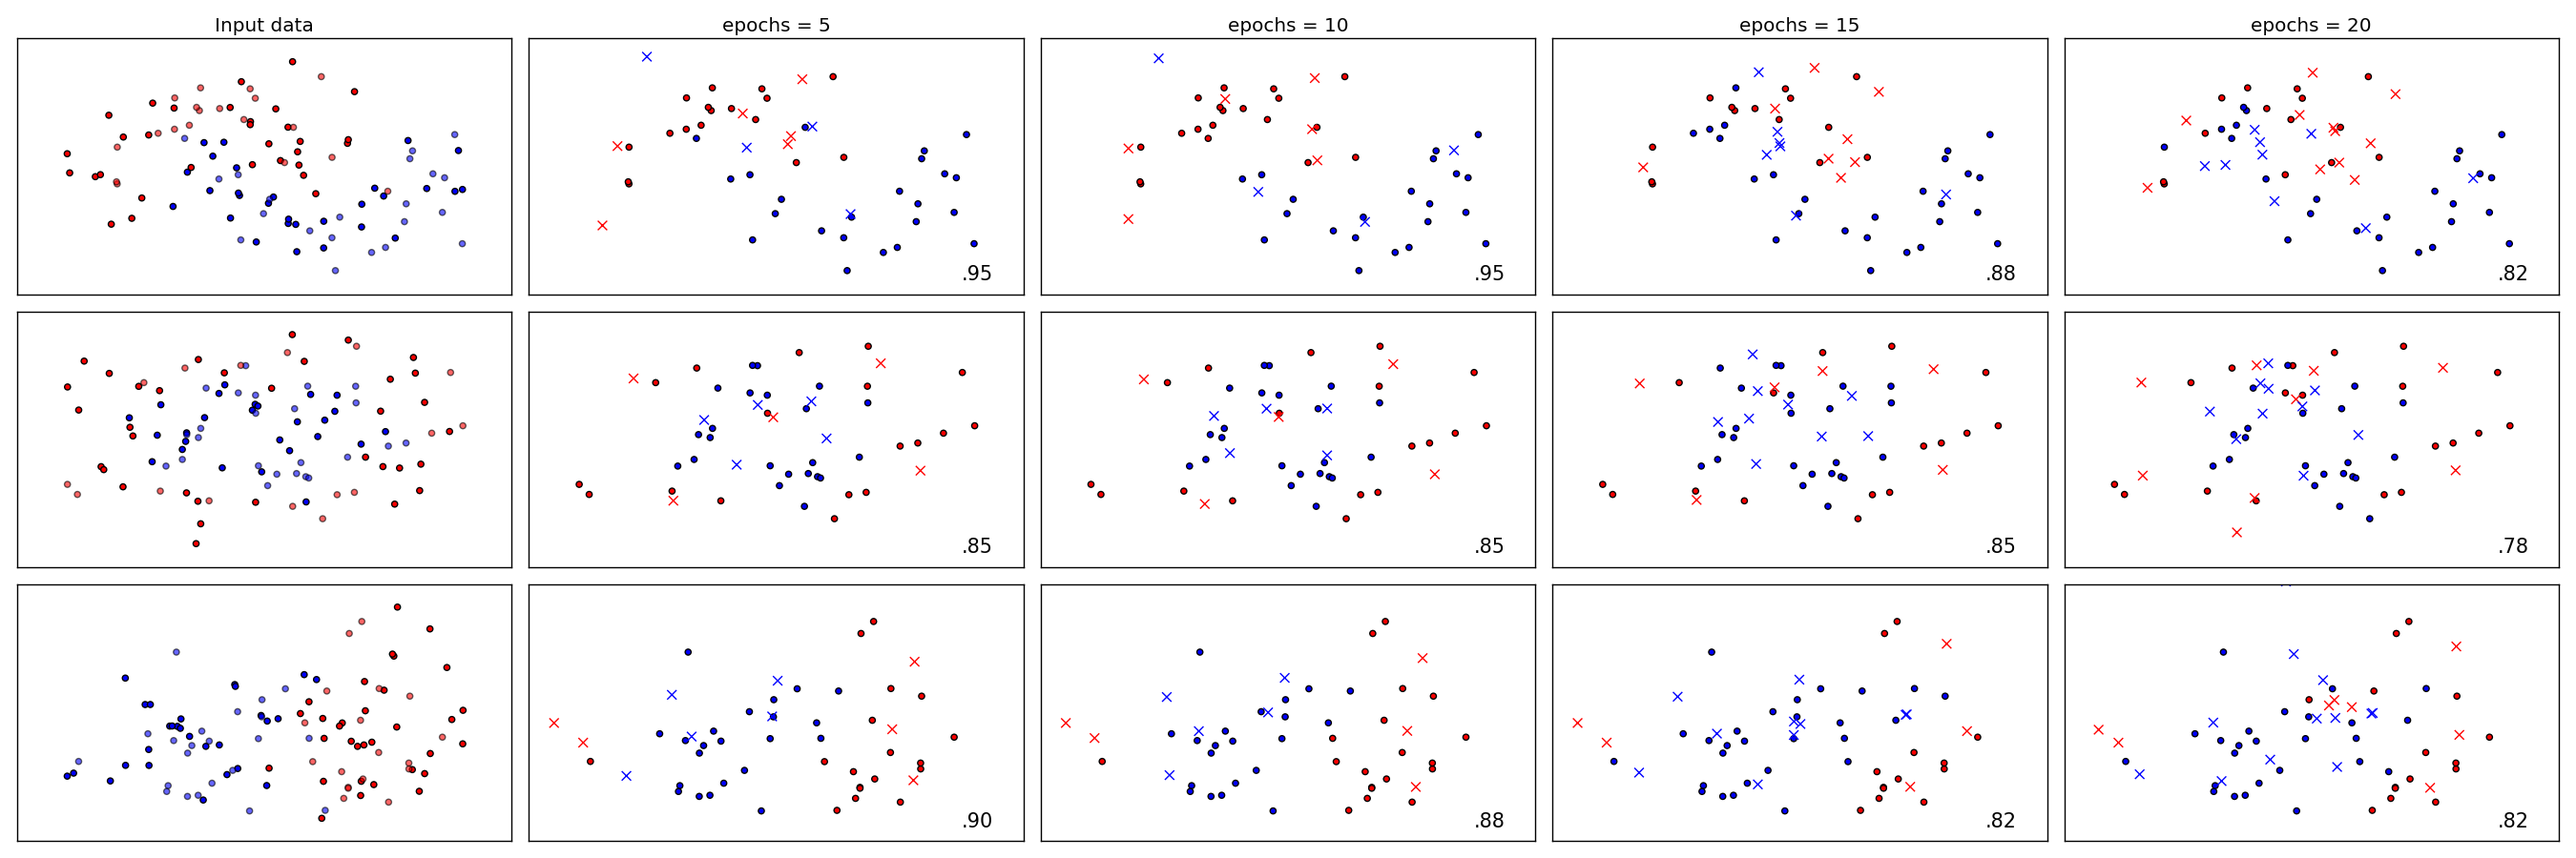
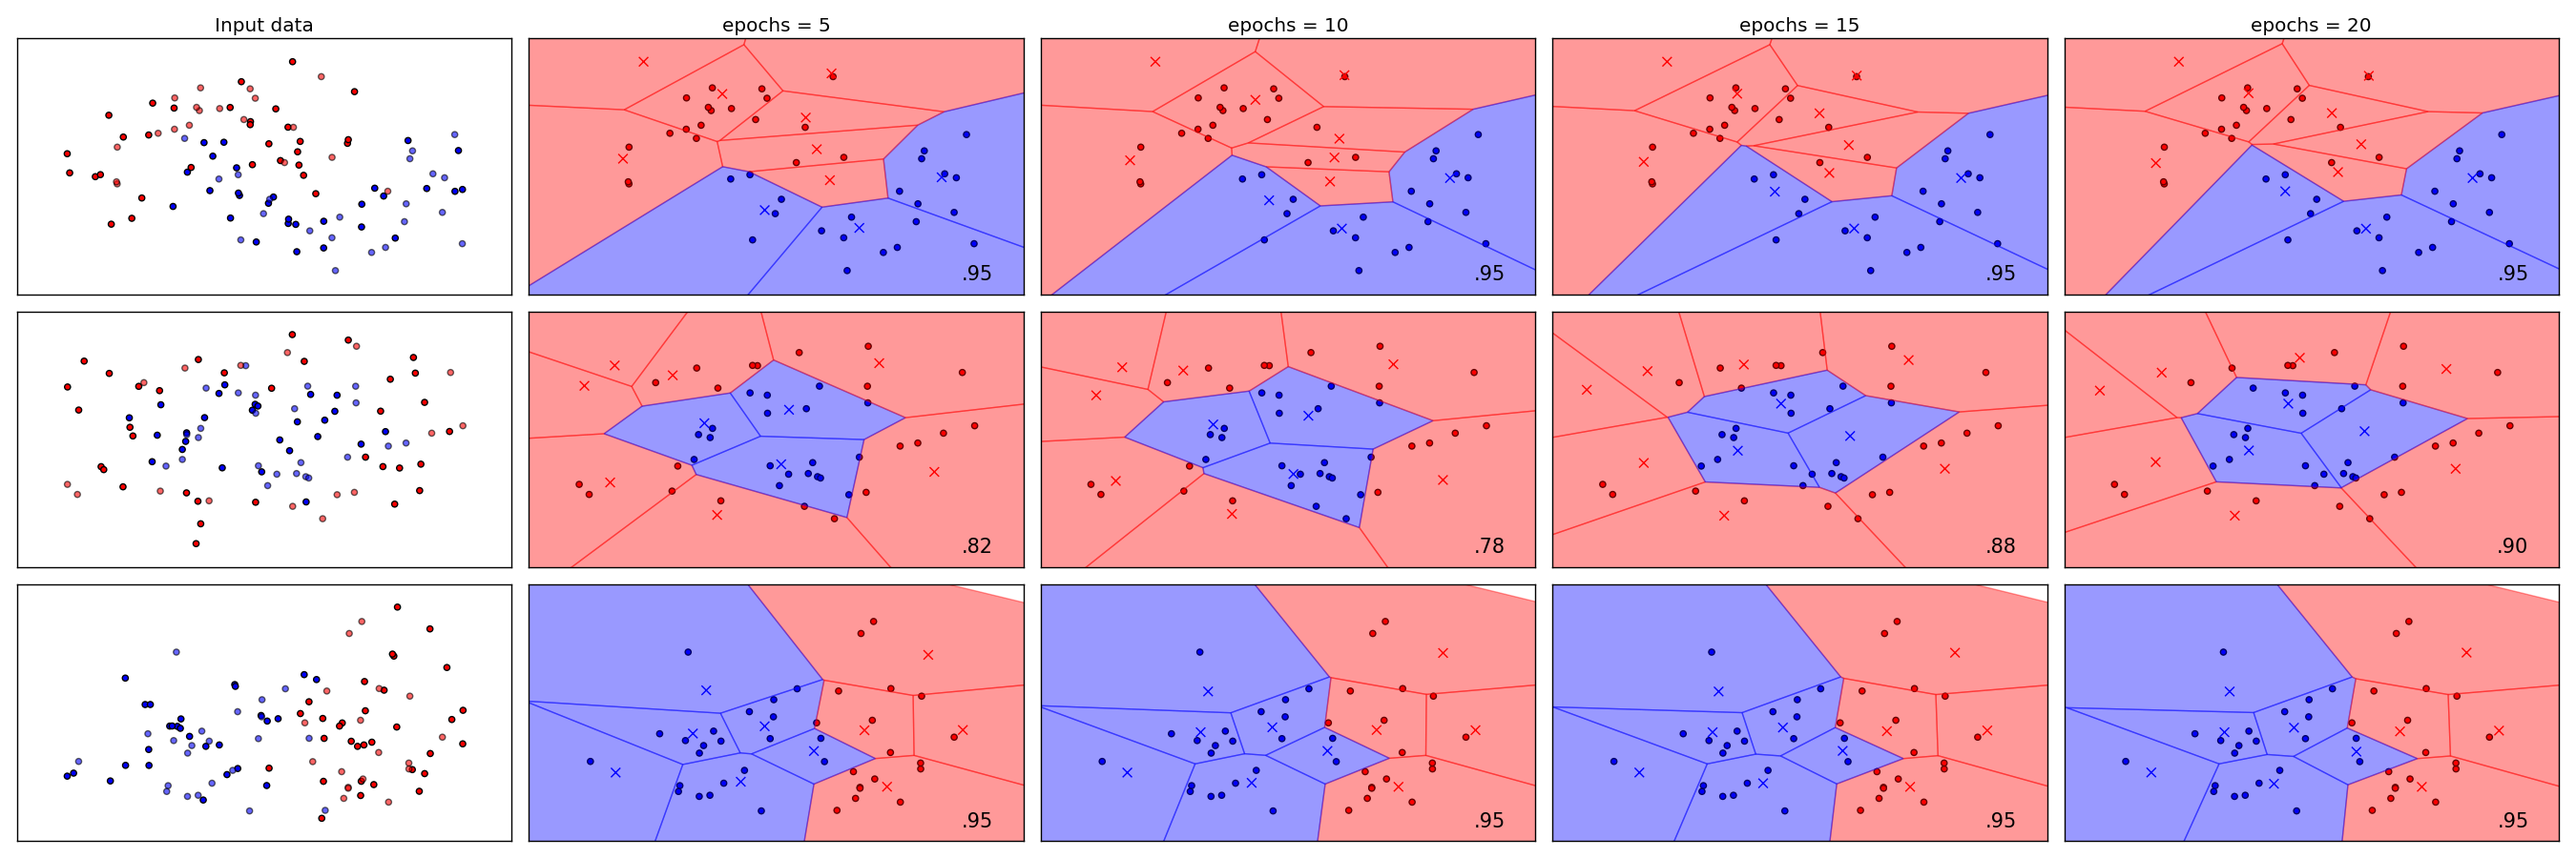
Changed COnfig-Definition and added ReadMe

diff --git a/Comparison.py b/Comparison.py
@@ -8,7 +8,108 @@ import LVQ
 from ConfigParser import SafeConfigParser
 import sys
 import os
+from scipy.spatial import Voronoi
 h = .02  # step size in the mesh
+
+def voronoi_finite_polygons_2d(vor, radius=None):
+    """
+    Reconstruct infinite voronoi regions in a 2D diagram to finite
+    regions.
+
+    Parameters
+    ----------
+    vor : Voronoi
+        Input diagram
+    radius : float, optional
+        Distance to 'points at infinity'.
+
+    Returns
+    -------
+    regions : list of tuples
+        Indices of vertices in each revised Voronoi regions.
+    vertices : list of tuples
+        Coordinates for revised Voronoi vertices. Same as coordinates
+        of input vertices, with 'points at infinity' appended to the
+        end.
+
+    """
+
+    if vor.points.shape[1] != 2:
+        raise ValueError("Requires 2D input")
+
+    new_regions = []
+    new_vertices = vor.vertices.tolist()
+
+    center = vor.points.mean(axis=0)
+    if radius is None:
+        radius = vor.points.ptp().max()
+
+    # Construct a map containing all ridges for a given point
+    all_ridges = {}
+    for (p1, p2), (v1, v2) in zip(vor.ridge_points, vor.ridge_vertices):
+        all_ridges.setdefault(p1, []).append((p2, v1, v2))
+        all_ridges.setdefault(p2, []).append((p1, v1, v2))
+
+    # Reconstruct infinite regions
+    for p1, region in enumerate(vor.point_region):
+        vertices = vor.regions[region]
+
+        if all(v >= 0 for v in vertices):
+            # finite region
+            new_regions.append(vertices)
+            continue
+
+        # reconstruct a non-finite region
+        ridges = all_ridges[p1]
+        new_region = [v for v in vertices if v >= 0]
+
+        for p2, v1, v2 in ridges:
+            if v2 < 0:
+                v1, v2 = v2, v1
+            if v1 >= 0:
+                # finite ridge: already in the region
+                continue
+
+            # Compute the missing endpoint of an infinite ridge
+
+            t = vor.points[p2] - vor.points[p1] # tangent
+            t /= np.linalg.norm(t)
+            n = np.array([-t[1], t[0]])  # normal
+
+            midpoint = vor.points[[p1, p2]].mean(axis=0)
+            direction = np.sign(np.dot(midpoint - center, n)) * n
+            far_point = vor.vertices[v2] + direction * radius
+
+            new_region.append(len(new_vertices))
+            new_vertices.append(far_point.tolist())
+
+        # sort region counterclockwise
+        vs = np.asarray([new_vertices[v] for v in new_region])
+        c = vs.mean(axis=0)
+        angles = np.arctan2(vs[:,1] - c[1], vs[:,0] - c[0])
+        new_region = np.array(new_region)[np.argsort(angles)]
+
+        # finish
+        new_regions.append(new_region.tolist())
+
+    return new_regions, np.asarray(new_vertices)
+
+
+def draw_voronoi(points, classes, ax):
+    # compute Voronoi tesselation
+    vor = Voronoi(points)
+
+    # plot
+    regions, vertices = voronoi_finite_polygons_2d(vor)
+
+    colors = ["red", "blue"]
+    # colorize
+    for i, region in enumerate(regions):
+        polygon = vertices[region]
+        cur_class = classes[i]
+        color = colors[int(cur_class)]
+        ax.fill(*zip(*polygon), alpha=0.4, color=color)
+
 
 def read_config(configfile):
     parser = SafeConfigParser()
@@ -94,6 +195,7 @@ for ds_cnt, ds in enumerate(datasets):
         X_code = clf.codebooks[:,:2]
         y_code = clf.codebooks[:,2]
 
+        draw_voronoi(X_code, y_code, ax)
         y_pred = clf.predict(X_test)
 
         # Plot prediction points

diff --git a/LVQ.py b/LVQ.py
@@ -5,9 +5,8 @@ import random
 import sklearn
 from sklearn.utils.validation import check_X_y, check_array, check_is_fitted
 from sklearn.utils.multiclass import unique_labels
-import sys
 from sklearn.metrics import accuracy_score
-
+from scipy.spatial.distance import cityblock
 # Set up a specific logger with our desired output level
 my_logger = logging.getLogger('LVQ')
 my_logger.setLevel(logging.INFO)
@@ -17,19 +16,26 @@ handler = logging.StreamHandler()
 my_logger.addHandler(handler)
 
 
+######### Distance Functions
 
 def euclidean_distance(vect1, vect2):
     dist = np.linalg.norm(vect1 - vect2)
     return dist
 
-# Codebook Init Functions
+def cityblock_distance(vect1, vect2):
+    dist = cityblock(vect1, vect2)
+    return dist
 
-# distance functions
+
+
+# distance functions dict
 distance_functions = {
-    "euclidean" : euclidean_distance
+    "euclidean" : euclidean_distance,
+    "cityblock": cityblock_distance
 }
 
-# create a single random codeboook
+########## Codebook Init Functions
+
 def random_codebook(train, rnd=None):
     n_records = train.shape[0]
     n_features = train.shape[1]
@@ -75,11 +81,11 @@ def random_class_codebook(train, rnd=None, filterclass = None):
 
         codebook[0, i] = random_feature
 
-    my_logger.debug('Created Random Codebook: %s' % codebook)
+    my_logger.debug('Created Random class Codebook: %s' % codebook)
 
     return codebook
 
-# codebook init functions
+# codebook init functions dict
 codebook_inits = {
     "random" : random_codebook,
     "class": random_class_codebook
@@ -87,6 +93,7 @@ codebook_inits = {
 ########################################################################################################################
 ########################################################################################################################
 ########################################################################################################################
+
 
 class LVQ(sklearn.base.BaseEstimator):
 
@@ -143,7 +150,6 @@ class LVQ(sklearn.base.BaseEstimator):
         code_distances.sort(key=lambda tup: tup[1])
 
         bmu = code_distances[0][0]
-
 
         my_logger.debug("BMU is %s" % bmu)
         return bmu
